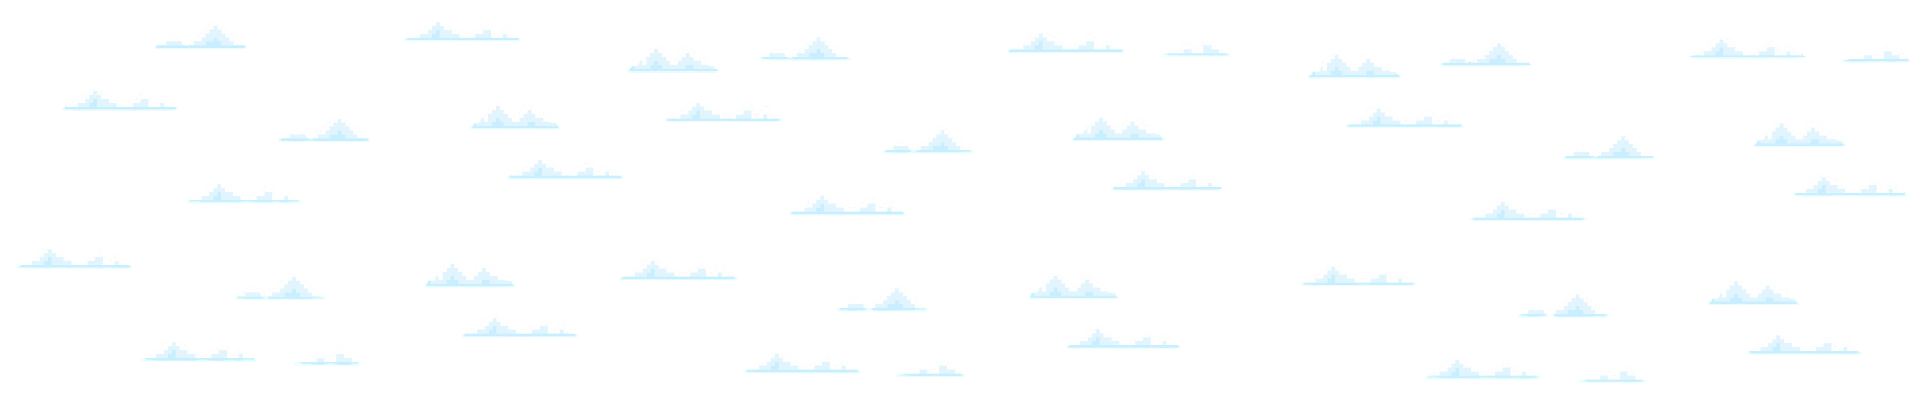
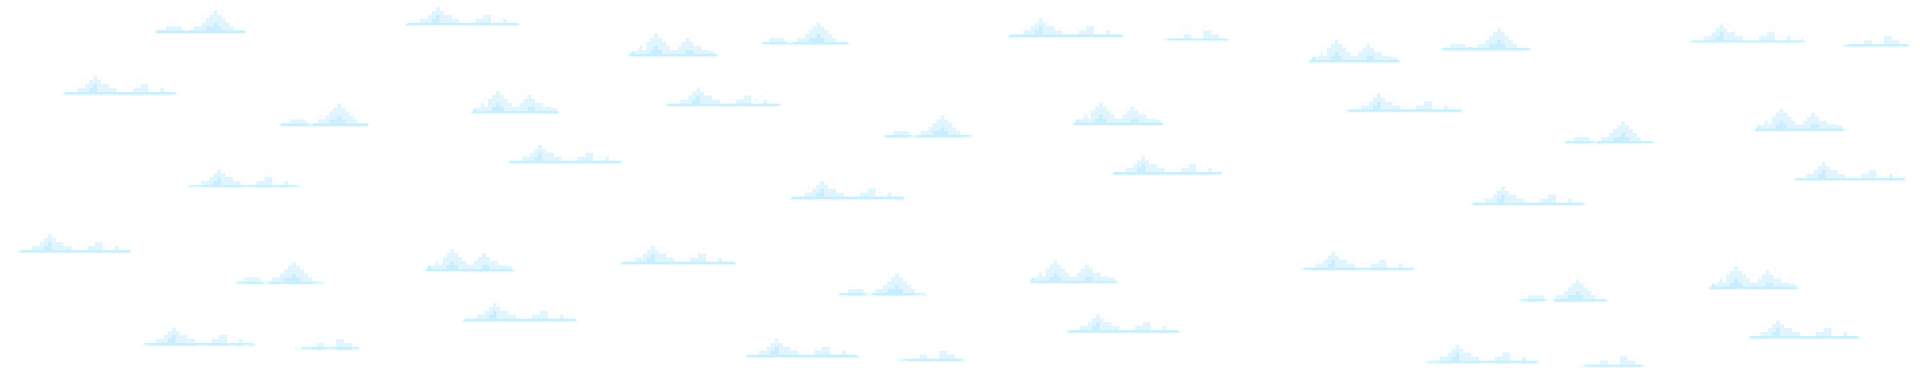
tela home quiz

diff --git a/src/Paginas/Quiz/Quiz.jsx b/src/Paginas/Quiz/Quiz.jsx
@@ -1,8 +1,12 @@
 import PopUpInfo from './componentesQuiz/IniciapPopUp/PopUp/PopupInfo.jsx';
-import './componentesQuiz/IniciapPopUp/QuizPerguntas.css'
 import {StartBtn} from './componentesQuiz/IniciapPopUp/LogicaQuiz.jsx'
+import './componentesQuiz/IniciapPopUp/QuizPerguntas.css'
+import './css/HomeQuiz/homeQuiz.css'
 
-// import banner_quiz from './img/banner-quiz.gif'
+import banner_quiz from './img/banner-quiz.gif'
+import icon_hemograma from '../Public/icons/hemoglobina.svg'
+import icon_coracao from '../Public/icons/coracao.svg'
+import icon_raioX from '../Public/icons/raioX.svg'
 
 export default function Quiz() {
   return (
@@ -10,18 +14,33 @@ export default function Quiz() {
       <div className="main">
         <section className='home-quiz'>
 
-          {/* BANNER QUIZ
+          {/* BANNER QUIZ  */}
           <div className="banner-quiz">
-            <div className="titulo-quiz">
-              <img src={banner_quiz} alt="Quiz"/>
-            </div>
-          </div> */}
+              <img src={banner_quiz} className="img-fluid gif-quiz" alt="Quiz"/>
+          </div>
 
           {/* LISTA DE QUIZZES */}
-          <div className="home-content">
-            <h1>Pagina do Quiz</h1>
-            <p>Lorem ipsum dolor sit amet consectetur, adipisicing elit. Adipisci dolore iure non rerum blanditiis nemo corrupti dolor dignissimos ex laboriosam repellendus delectus</p>
-            <button type="button" onClick={StartBtn} className='start-btn'>Iniciar Quiz </button>
+          
+          <div className="temas-quiz">
+            <h1>Escolha o tema que deseja jogar:</h1>
+            <div className="escolher-quiz-div ">
+
+              <button className="escolher-quiz-btn"  type="button" onClick={StartBtn}>
+                  <img className="escolher-quiz-btn-img img-fluid" src={icon_hemograma} alt="Quiz - hemograma" />
+                  <p className="quiz-btn-p">Hemodiálise</p> 
+              </button>
+
+              <button className="escolher-quiz-btn"  type="button" onClick={StartBtn}>
+                  <img className="escolher-quiz-btn-img img-fluid" src={icon_coracao} alt="Quiz - eletrocardiograma" />
+                  <p className="quiz-btn-p">Eletrocardiograma</p> 
+              </button>
+
+              <button className="escolher-quiz-btn"  type="button" onClick={StartBtn}>
+                  <img className="escolher-quiz-btn-img img-fluid" src={icon_raioX} alt="Quiz - raioX" />
+                  <p className="quiz-btn-p">Raio-X</p> 
+              </button>
+
+            </div>
           </div>
         </section>
       </div>

diff --git a/src/Paginas/Quiz/css/HomeQuiz/homeQuiz.scss b/src/Paginas/Quiz/css/HomeQuiz/homeQuiz.scss
@@ -1,0 +1,86 @@
+@use 'mixinsQuiz';
+@use 'variaveis';
+
+body {
+    @include mixinsQuiz.zero-config(0, 0);
+}
+
+// ------------------ BANNER QUIZ ------------------ 
+
+.banner-quiz {
+    margin-top: -5%;
+    width: 100%;
+    height: 38vw;
+    background: url(../../img/nuvens-quiz.png) no-repeat;
+    background-size: cover;
+
+    animation: animate 20s linear infinite;
+
+    @include mixinsQuiz.flex-config(row, center, center);
+
+    .gif-quiz {
+        margin-top: 5%;
+        width: 35vw;
+    }
+    
+}
+
+@keyframes animate {
+    0% {background-position: 0;}
+    100% {background-position: 100%;}
+}
+
+
+/* ------------------ CADS COM OS TEMAS ------------------ */
+
+.temas-quiz{
+    margin: 10px auto ; 
+    width: 60%;
+
+    // TEMAS DOS QUIZ
+    .escolher-quiz-div {
+        @include mixinsQuiz.flex-config(row, center, center, wrap);
+        @include mixinsQuiz.div-size(100%, auto);
+        gap: 2%;
+        margin: 20px auto;
+
+        // BOTÃO TEMA QUIZ
+        .escolher-quiz-btn {
+            background: variaveis.$azul_claro;
+            
+            margin: 10px 0;
+            padding: 6px 10px;
+
+            border: none;
+            border-radius: 10px;
+
+            cursor: pointer;
+
+            @include mixinsQuiz.fonte-config(1rem, bold);
+            @include mixinsQuiz.div-size(32%, 20vw);
+            @include mixinsQuiz.sombra(0.15rem, 0.15rem, 0.5em, variaveis.$sombra); 
+            
+            min-width: 250px;
+            min-height: 250px;
+        
+            &:hover{
+                background-color: variaveis.$amarela_claro;
+                @include mixinsQuiz.borda(10px, solid, variaveis.$amarela_escuro);
+            }
+
+            // IMAGEM QUIZ
+            img {
+                @include mixinsQuiz.div-size(50%, 50%);
+            }
+            
+            // TÍTULO QUIZ
+            p {
+                padding: 10% 0 0 0;
+                font-size: 1.5rem;
+                color: variaveis.$azul_intermediario;
+                text-transform: uppercase;
+            }
+        }
+    }
+}
+

diff --git a/src/Paginas/Quiz/css/HomeQuiz/homeQuiz.css b/src/Paginas/Quiz/css/HomeQuiz/homeQuiz.css
@@ -1,0 +1,77 @@
+body {
+  margin: 0;
+  padding: 0;
+}
+
+.banner-quiz {
+  margin-top: -5%;
+  width: 100%;
+  height: 38vw;
+  background: url(../../img/nuvens-quiz.png) no-repeat;
+  background-size: cover;
+  animation: animate 20s linear infinite;
+  display: flex;
+  flex-direction: row;
+  justify-content: center;
+  align-items: center;
+  flex-wrap: none;
+}
+.banner-quiz .gif-quiz {
+  margin-top: 5%;
+  width: 35vw;
+}
+
+@keyframes animate {
+  0% {
+    background-position: 0;
+  }
+  100% {
+    background-position: 100%;
+  }
+}
+/* ------------------ CADS COM OS TEMAS ------------------ */
+.temas-quiz {
+  margin: 10px auto;
+  width: 60%;
+}
+.temas-quiz .escolher-quiz-div {
+  display: flex;
+  flex-direction: row;
+  justify-content: center;
+  align-items: center;
+  flex-wrap: wrap;
+  width: 100%;
+  height: auto;
+  gap: 2%;
+  margin: 20px auto;
+}
+.temas-quiz .escolher-quiz-div .escolher-quiz-btn {
+  background: #D1F4F6;
+  margin: 10px 0;
+  padding: 6px 10px;
+  border: none;
+  border-radius: 10px;
+  cursor: pointer;
+  font-size: 1rem;
+  font-weight: bold;
+  width: 32%;
+  height: 20vw;
+  box-shadow: 0.15rem 0.15rem 0.5em rgba(0, 0, 0, 0.299);
+  min-width: 250px;
+  min-height: 250px;
+}
+.temas-quiz .escolher-quiz-div .escolher-quiz-btn:hover {
+  background-color: #F1E49D;
+  border: 10px solid #FFDE59;
+  border-radius: none;
+}
+.temas-quiz .escolher-quiz-div .escolher-quiz-btn img {
+  width: 50%;
+  height: 50%;
+}
+.temas-quiz .escolher-quiz-div .escolher-quiz-btn p {
+  padding: 10% 0 0 0;
+  font-size: 1.5rem;
+  color: #67A3E2;
+  text-transform: uppercase;
+}/*# sourceMappingURL=homeQuiz.css.map */

diff --git a/src/Paginas/Quiz/css/HomeQuiz/_mixinsQuiz.scss b/src/Paginas/Quiz/css/HomeQuiz/_mixinsQuiz.scss
@@ -1,0 +1,31 @@
+@mixin zero-config($margin-param, $padding-param) {
+    margin: $margin-param;
+    padding: $padding-param;
+}
+
+@mixin div-size($w, $h) {
+    width: $w;
+    height: $h;
+}
+
+@mixin flex-config($direction, $justify, $align-items, $wrap:none){
+    display: flex;
+    flex-direction: $direction;
+    justify-content: $justify;
+    align-items: $align-items;
+    flex-wrap: $wrap;
+}
+
+@mixin sombra($a, $b, $c, $cor){
+    box-shadow: $a $b $c $cor;
+}
+
+@mixin borda($tam, $tipo, $cor, $radius:none){
+    border: $tam $tipo $cor;
+    border-radius: $radius;
+}
+
+@mixin fonte-config($tam, $esp){
+    font-size: $tam;
+    font-weight: $esp;
+}

diff --git a/src/Paginas/Memoria/Componentes/EscolherJogo.jsx b/src/Paginas/Memoria/Componentes/EscolherJogo.jsx
@@ -4,9 +4,9 @@ import './css/escolher-jogo.css';
 import banner_memoria from '../Img/banner_memoria/banner-memoria.svg'
 import icon_memoria from '../Img/banner_memoria/icons-jg-memoria.gif'
 
-import hemoglobina from '../Img/icons/hemoglobina.svg'
-import coracao from '../Img/icons/coracao.svg'
-import raioX from '../Img/icons/raioX.svg'
+import hemoglobina from '../../Public/icons/hemoglobina.svg'
+import coracao from '../../Public/icons/coracao.svg'
+import raioX from '../../Public/icons/raioX.svg'
 
 function EscolherJogo() {
   return (

diff --git a/src/Paginas/Memoria/Componentes/MemoriaHemodialize.jsx b/src/Paginas/Memoria/Componentes/MemoriaHemodialize.jsx
@@ -1,7 +1,7 @@
 import './css/jogos.css';
 import LogicaMemoria from './LogicaMemoria';
 import bannerHemo from '../Img/banner_memoria/banner-hemograma.png'
-import icon_hemograma from '../Img/icons/hemoglobina.svg'
+import icon_hemograma from '../../Public/icons/hemoglobina.svg'
 
 
 function MemoriaHemodialize() {

diff --git a/src/Paginas/Quiz/QuizNovo.jsx b/src/Paginas/Quiz/QuizNovo.jsx
@@ -1,6 +1,6 @@
 import React from 'react';
 import QuizApp from './componentesQuiz/QuizApp';
-import './style.css';
+import './css/style.css';
 
 export default function QuizNovo() { 
   

diff --git a/src/Paginas/Quiz/css/HomeQuiz/_variaveis.scss b/src/Paginas/Quiz/css/HomeQuiz/_variaveis.scss
@@ -1,0 +1,7 @@
+$azul_claro: #D1F4F6;
+$azul_intermediario:  #67A3E2;
+
+$amarela_claro: #F1E49D;
+$amarela_escuro: #FFDE59;
+
+$sombra: rgba(0, 0, 0, 0.299);
